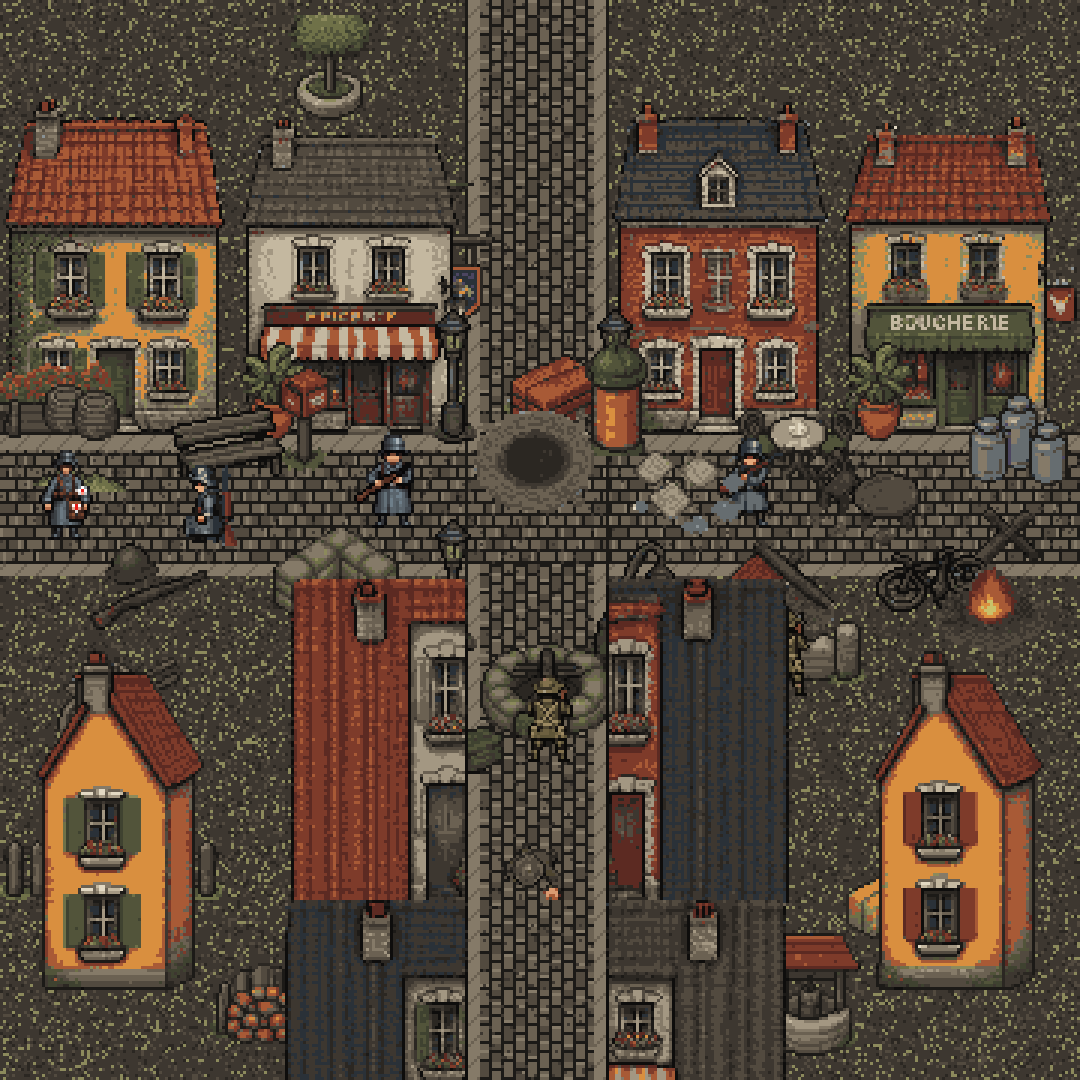
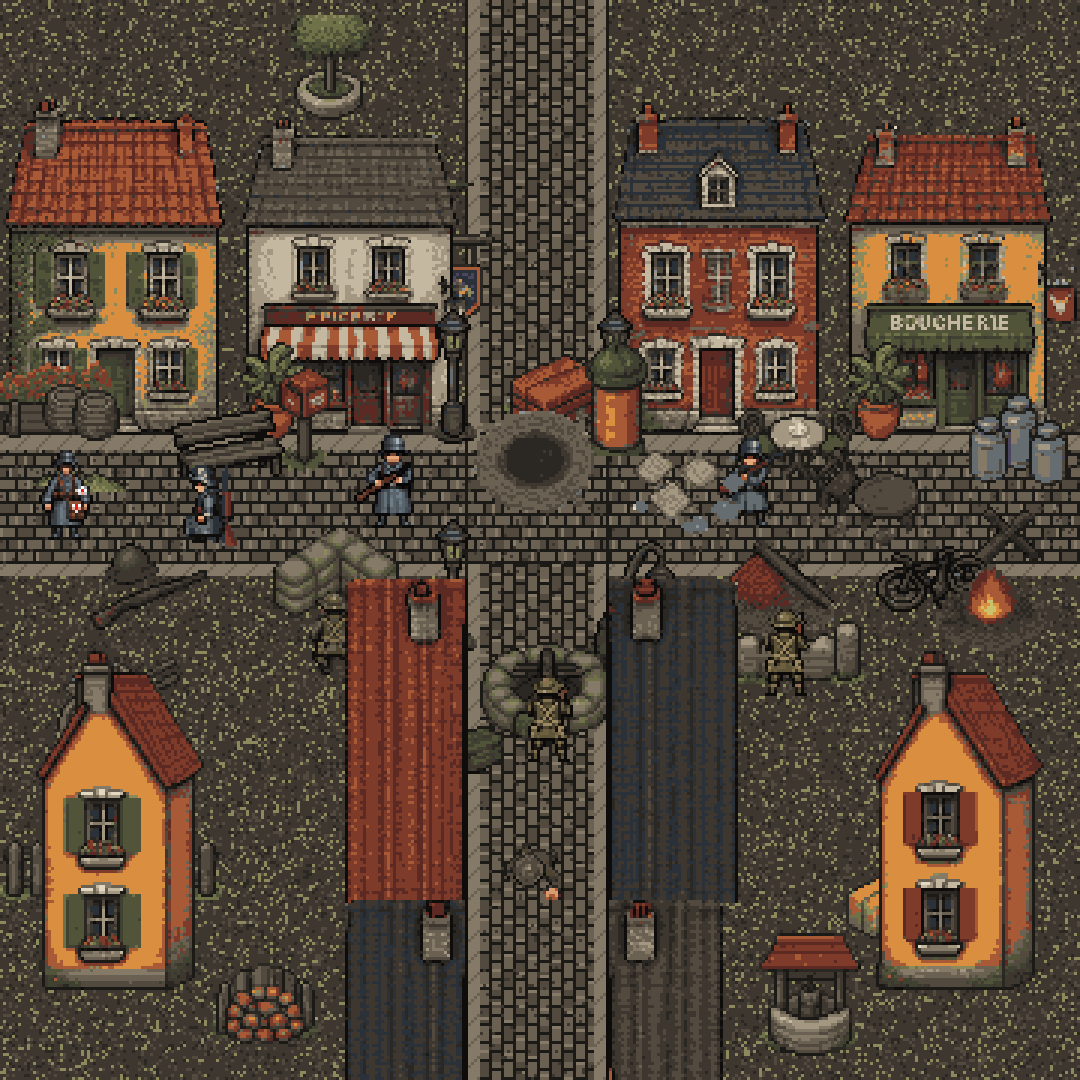
Vesnice: svislá ulice jen se střechami (bez pruhu fasády)
Claude-Session: https://claude.ai/code/session_01VWWMSwJGFZow7tBNcmKaEZ

Changed region(s): [[0.2444, 0.5194, 0.4278, 1.0], [0.55, 0.5194, 0.7333, 1.0]]

diff --git a/docs/mockups/village/village4.py b/docs/mockups/village/village4.py
@@ -40,7 +40,7 @@ for n, cx in [('big/house_ochre', 38), ('big/shop_epicerie', 118), ('big/house_b
 def col(names, right_edge=None, left_edge=None, y0=HE + 5):
     y = y0
     for n in names:
-        img = L(f'street/v_{n}')
+        img = L(f'street/roof_{n}')
         if right_edge is not None: img = img.transpose(Image.FLIP_LEFT_RIGHT); cx = right_edge - img.width / 2
         else: cx = left_edge + img.width / 2
         put(img, cx, y + img.height); y += img.height - 1
